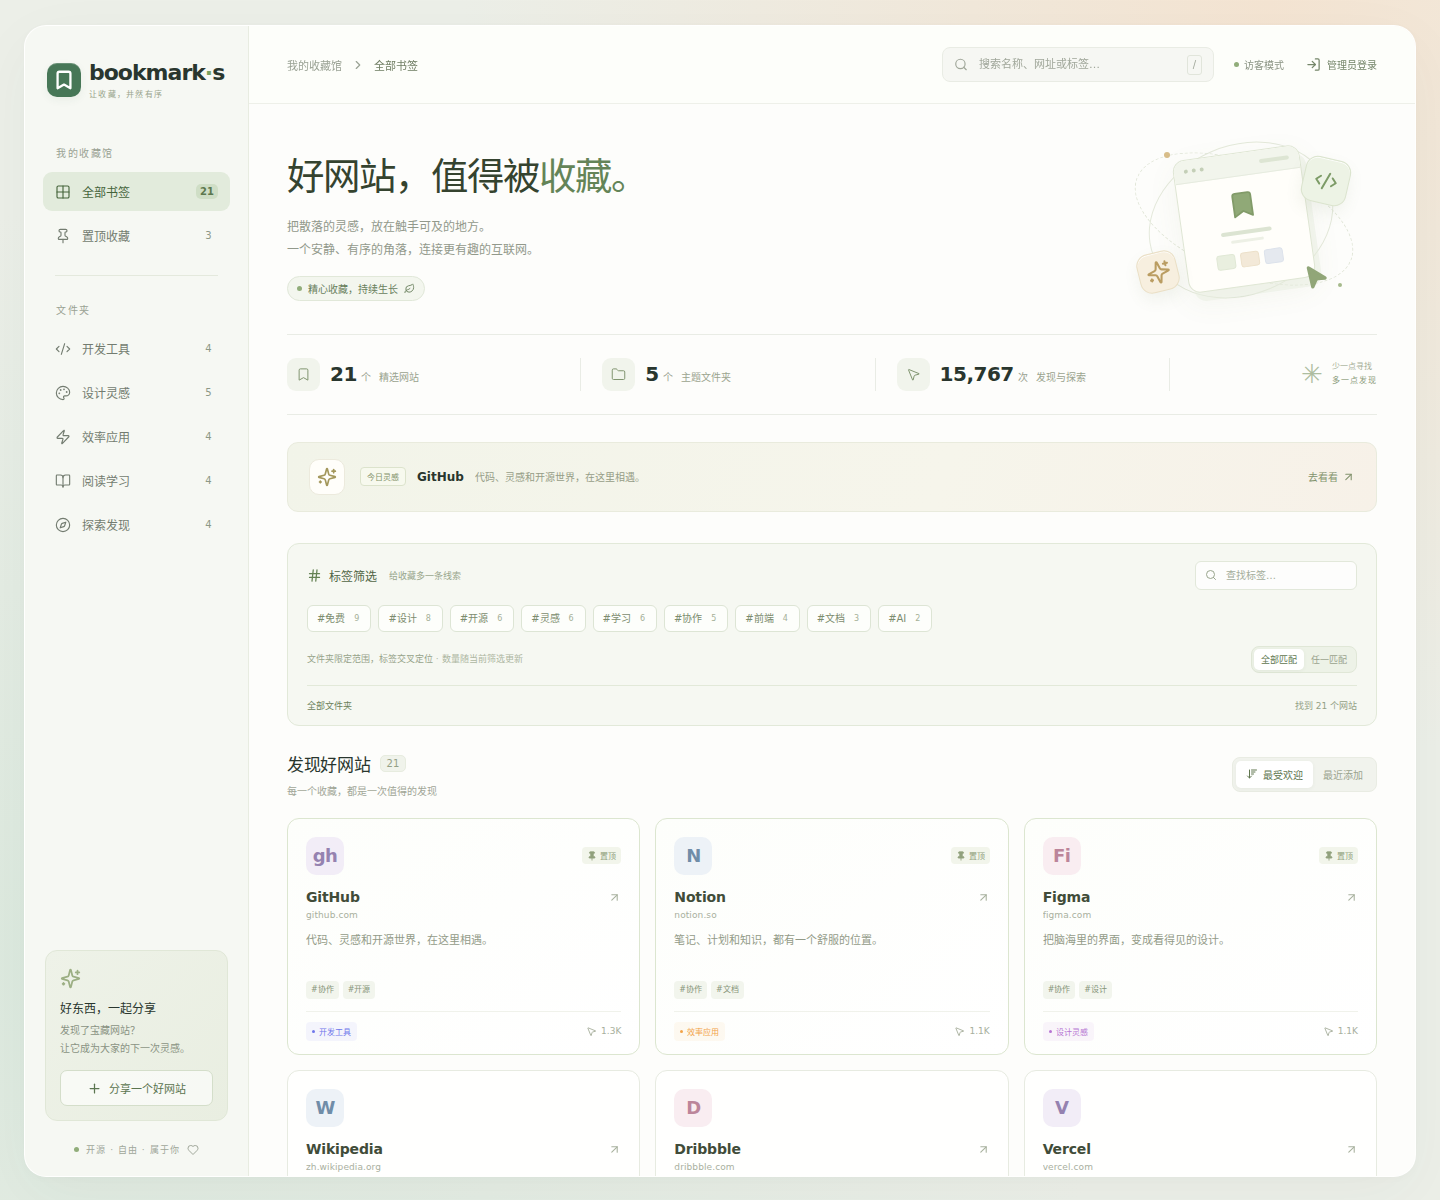
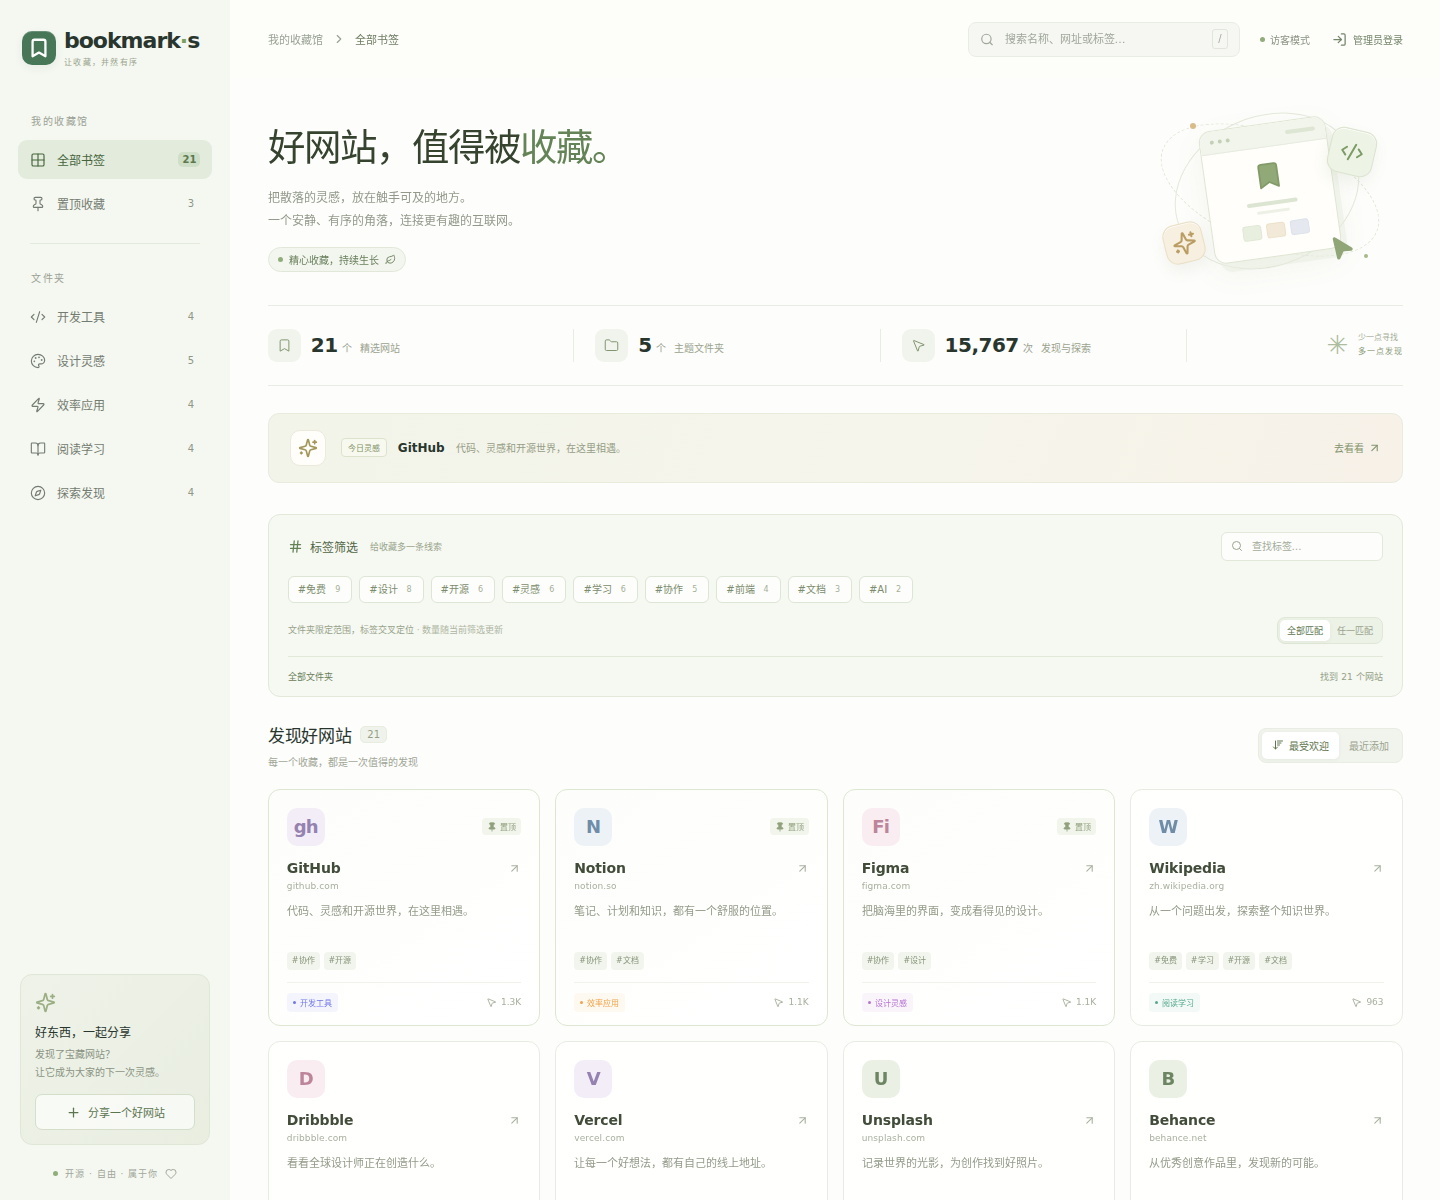
style: make bookmark layout fill the browser viewport

diff --git a/src/styles.css b/src/styles.css
@@ -1,7 +1,7 @@
 :root {
   font-family: 'DM Sans', 'Noto Sans SC', -apple-system, BlinkMacSystemFont, 'Segoe UI', sans-serif;
   color: #29362e;
-  background: #ecefe8;
+  background: #fdfdfb;
   font-synthesis: none;
   text-rendering: optimizeLegibility;
   -webkit-font-smoothing: antialiased;
@@ -13,7 +13,7 @@
   --border: #e9ece5;
 }
 * { box-sizing: border-box; }
-body { margin: 0; min-width: 360px; min-height: 100vh; background: radial-gradient(ellipse at 88% 0, #f4e4d2 0, transparent 45%), radial-gradient(ellipse at 5% 80%, #dce9de 0, transparent 55%), #ecefe8; }
+body { margin: 0; min-width: 320px; min-height: 100vh; background: #fdfdfb; }
 button, input, select, textarea { font: inherit; }
 button, a, input, select, textarea { -webkit-tap-highlight-color: transparent; }
 button { cursor: pointer; }
@@ -25,8 +25,8 @@ button, a, input, textarea, select { outline-offset: 4px; }
 a { color: inherit; text-decoration: none; }
 button svg, a svg { flex-shrink: 0; }
 ::selection { background: #dcebd5; }
-.app-shell { display: flex; max-width: 1640px; min-height: calc(100vh - 48px); margin: 24px auto; width: calc(100% - 48px); overflow: clip; border: 1px solid #ffffffc9; border-radius: 22px; box-shadow: 0 18px 65px #334a3b0b, 0 2px 8px #334a3b05; background: #fdfdfb; }
-.sidebar { width: 224px; flex-shrink: 0; padding: 34px 18px 20px; display: flex; flex-direction: column; background: #f5f7f1e0; border-right: 1px solid #e8ece1; }
+.app-shell { display: flex; width: 100%; min-height: 100vh; min-height: 100dvh; background: #fdfdfb; }
+.sidebar { width: clamp(200px, 16vw, 248px); flex-shrink: 0; padding: 28px 18px 20px; display: flex; flex-direction: column; background: #f5f7f1; }
 .brand { display: flex; align-items: center; flex: 0 0 auto; gap: 8px; width: 100%; min-height: 40px; padding: 0 4px; }
 .brand-mark { flex: 0 0 34px; width: 34px; height: 34px; aspect-ratio: 1; background: var(--green); display: grid; place-items: center; color: white; border-radius: 10px; box-shadow: inset 0 1px #ffffff30, 0 3px 8px #345d4010; }
 .brand-mark svg { display: block; width: 22px; height: 22px; }
@@ -47,8 +47,8 @@ button svg, a svg { flex-shrink: 0; }
 .sidebar-share button:hover { background: white; }
 .sidebar-footer { display: flex; align-items: center; justify-content: center; gap: 7px; color: #a0a79a; font-size: 9px; letter-spacing: 1px; }
 .sidebar-footer svg { width: 12px; }
-.workspace { min-width: 0; flex: 1; }
-.topbar { height: 78px; padding: 0 38px; display: flex; align-items: center; gap: 24px; border-bottom: 1px solid #eef0e9; background: #ffffff7a; }
+.workspace { min-width: 0; flex: 1; --content-gutter: clamp(24px, 2.6vw, 56px); }
+.topbar { height: 78px; padding: 0 var(--content-gutter); display: flex; align-items: center; gap: 24px; background: #ffffff7a; }
 .breadcrumb { display: flex; align-items: center; gap: 9px; color: #9aa294; font-size: 11px; white-space: nowrap; }
 .breadcrumb svg { width: 14px; height: 14px; }
 .breadcrumb span:last-child { color: #626f5b; }
@@ -61,7 +61,7 @@ button svg, a svg { flex-shrink: 0; }
 .topbar-actions { display: flex; align-items: center; gap: 15px; white-space: nowrap; }
 .guest-badge { font-size: 10px; color: #8b9484; display: flex; align-items: center; gap: 5px; }
 .guest-badge svg { width: 13px; height: 13px; }
-.main-content { max-width: 1340px; margin: auto; padding: 31px 38px 24px; }
+.main-content { width: 100%; padding: 28px var(--content-gutter) 24px; }
 .hero { display: flex; align-items: center; justify-content: space-between; position: relative; min-height: 179px; margin-bottom: 19px; }
 .hero h1 { margin: 0; font-size: clamp(26px, 2.6vw, 38px); line-height: 1.5; font-weight: 600; letter-spacing: -1px; color: #35432f; }
 .hero h1 span { color: #648457; }
@@ -108,7 +108,7 @@ button svg, a svg { flex-shrink: 0; }
 .icon-button { display: inline-flex; align-items: center; justify-content: center; border: 0; border-radius: 6px; width: 28px; height: 28px; padding: 5px; background: transparent; color: #98a08e; }
 .icon-button svg { width: 15px; height: 15px; }
 .icon-button:hover { color: #5e7950; background: #eff3e9; }
-.bookmark-grid { display: grid; grid-template-columns: repeat(3, minmax(0, 1fr)); gap: 15px; }
+.bookmark-grid { display: grid; grid-template-columns: repeat(auto-fill, minmax(min(100%, 240px), 1fr)); gap: 15px; }
 .bookmark-card { position: relative; min-width: 0; border: 1px solid #e7ebe1; border-radius: 12px; background: #ffffffc9; padding: 18px 18px 13px; transition: transform .2s, box-shadow .2s, border-color .2s; }
 .bookmark-card:hover { transform: translateY(-3px); border-color: #c9d7bc; box-shadow: 0 7px 22px #556c390b; }
 .bookmark-card.pinned { border-color: #d9e3ce; background: linear-gradient(145deg, #fcfdf9, #fff); }
@@ -180,9 +180,7 @@ button svg, a svg { flex-shrink: 0; }
 .toast.error { background: #955f4ef5; }
 .mobile-menu-button { display: none; }
 .sr-only { position: absolute; width: 1px; height: 1px; padding: 0; margin: -1px; overflow: hidden; clip: rect(0, 0, 0, 0); white-space: nowrap; border: 0; }
-@media (min-width: 1550px) { .bookmark-grid { grid-template-columns: repeat(4, minmax(0, 1fr)); } .main-content { padding-inline: 45px; } }
 @media (max-width: 1150px) {
-  .app-shell { width: calc(100% - 28px); margin: 14px; min-height: calc(100vh - 28px); }
   .sidebar { width: 200px; padding-inline: 13px; }
   .main-content { padding: 26px; }
   .topbar { padding: 0 26px; gap: 14px; }
@@ -196,7 +194,6 @@ button svg, a svg { flex-shrink: 0; }
   .stat-item { padding: 0 12px; }
 }
 @media (max-width: 950px) {
-  .bookmark-grid { grid-template-columns: repeat(2, minmax(0, 1fr)); }
   .breadcrumb { display: none; }
   .search-box { margin-left: 0; flex: 1; }
   .topbar-actions { margin-left: auto; }
@@ -207,8 +204,7 @@ button svg, a svg { flex-shrink: 0; }
   .stat-item strong { font-size: 18px; }
 }
 @media (max-width: 700px) {
-  body { min-width: 360px; }
-  .app-shell { border-radius: 0; border: 0; min-height: 100vh; margin: 0; width: 100%; display: block; overflow: visible; }
+  .app-shell { display: block; }
   .sidebar { width: 100%; padding: 19px 20px 13px; border-right: 0; border-bottom: 1px solid #e4e9dc; display: block; }
   .brand { padding: 0; gap: 8px; }
   .sidebar nav { display: flex; flex-direction: row; gap: 6px; overflow-x: auto; scrollbar-width: none; margin: 0 -20px; padding: 0 20px; }
@@ -247,7 +243,7 @@ button svg, a svg { flex-shrink: 0; }
   .sort-tabs button { padding: 5px 7px; font-size: 9px; }
   .sort-tabs svg { width: 10px; }
   .collection-tools .primary-button { font-size: 10px; padding: 8px; }
-  .bookmark-grid { gap: 11px; }
+  .bookmark-grid { grid-template-columns: repeat(auto-fill, minmax(min(100%, 160px), 1fr)); gap: 11px; }
   .bookmark-card { padding: 14px 12px 10px; }
   .bookmark-open h3 { font-size: 12px; }
   .bookmark-open h3 svg { display: none; }
@@ -274,7 +270,7 @@ button svg, a svg { flex-shrink: 0; }
 }
 
 /* Small details give the collection its desktop feel, without external assets. */
-.page-wrap { padding-top: 1px; }
+.page-wrap { min-height: 100vh; min-height: 100dvh; }
 .brand { border: 0; background: transparent; text-align: left; }
 .brand > span:last-child { display: flex; flex-direction: column; justify-content: center; min-width: 0; }
 .brand strong { display: block; font-size: 22px; line-height: 1.15; letter-spacing: -1px; font-weight: 650; white-space: nowrap; }
@@ -386,16 +382,15 @@ button svg, a svg { flex-shrink: 0; }
 .sidebar-overlay { display: none; }
 .sidebar-close { display: none; }
 @media (min-width: 701px) {
-  .app-shell { height: calc(100dvh - 48px); min-height: 680px; }
-  .sidebar { min-height: 0; overflow-y: auto; }
-  .workspace { overflow-y: auto; scrollbar-width: thin; scrollbar-color: #dce3d3 transparent; }
+  .sidebar { position: sticky; top: 0; align-self: flex-start; height: 100vh; height: 100dvh; min-height: 0; overflow-y: auto; scrollbar-width: thin; scrollbar-color: #dce3d3 transparent; }
+  .sidebar-navigation, .sidebar-bottom { flex-shrink: 0; }
   .topbar { position: sticky; top: 0; z-index: 10; background: #fdfefaf0; backdrop-filter: blur(14px); }
   .sidebar-bottom { padding-top: 25px; }
 }
 @media (max-width: 1150px) {
   .brand strong { font-size: 20px; }
   .topbar-actions { gap: 13px; }
-  .hero-art { width: 190px; margin-right: -5px; transform: scale(.88); transform-origin: right center; }
+  .hero-art { width: 245px; margin: 0 0 0 -55px; transform: scale(.8); transform-origin: right center; }
   .hero h1 { font-size: 28px; }
   .stats-note { display: none; }
   .stat-item { flex: 1; }
@@ -407,7 +402,7 @@ button svg, a svg { flex-shrink: 0; }
 }
 @media (max-width: 950px) {
   .topbar-actions { width: 100%; }
-  .hero-art { width: 135px; transform: scale(.75); margin-right: -12px; margin-left: -25px; }
+  .hero-art { width: 245px; transform: scale(.6); margin: 0 0 0 -100px; }
   .hero h1 { font-size: 24px; }
   .hero-description { font-size: 10px; }
   .hero-copy { z-index: 1; }
@@ -415,7 +410,6 @@ button svg, a svg { flex-shrink: 0; }
   .spotlight-description { display: none; }
 }
 @media (max-width: 700px) {
-  .page-wrap { padding-top: 0; }
   .sidebar { position: fixed; top: 0; bottom: 0; left: 0; z-index: 40; width: 245px; display: flex; padding: 30px 20px 24px; transform: translateX(-100%); transition: transform .22s ease; background: #f7f9f2; border-right: 1px solid #e1e9d7; overflow-y: auto; }
   .sidebar.sidebar-open { transform: translateX(0); box-shadow: 15px 0 50px #263c2420; }
   .sidebar-close { display: inline-flex; position: absolute; right: 14px; top: 14px; }
@@ -621,4 +615,13 @@ button svg, a svg { flex-shrink: 0; }
   .main-content.has-filters .hero { min-height: 73px; margin-bottom: 12px; }
   .main-content.has-filters .hero h1 { font-size: 24px; }
   .main-content.has-filters .stats-strip { padding-block: 10px; margin-bottom: 18px; }
+}
+
+@media (max-width: 380px) {
+  .main-content { padding-inline: 16px; }
+  .stat-item { gap: 5px; padding-inline: 7px; }
+  .stat-icon { flex-shrink: 0; width: 24px; height: 24px; }
+  .stat-item strong { font-size: 15px; }
+  .stat-item strong span { font-size: 8px; margin-left: 2px; }
+  .stat-item p { font-size: 8px; }
 }

diff --git a/README.md b/README.md
@@ -1,6 +1,6 @@
 # bookmark-s
 
-一个可以自己部署的书签导航站，用文件夹、标签、搜索和点击热度整理常用网站。界面采用 macOS 风格的侧栏、半透明面板和圆角组件；游客可以浏览、访问和推荐网站，管理员负责收藏与整理。
+一个可以自己部署的书签导航站，用文件夹、标签、搜索和点击热度整理常用网站。页面铺满浏览器，书签列数随可用宽度自动调整，手机上使用抽屉导航；游客可以浏览、访问和推荐网站，管理员负责收藏与整理。
 
 ![bookmark-s 桌面预览](docs/preview.png)
 
